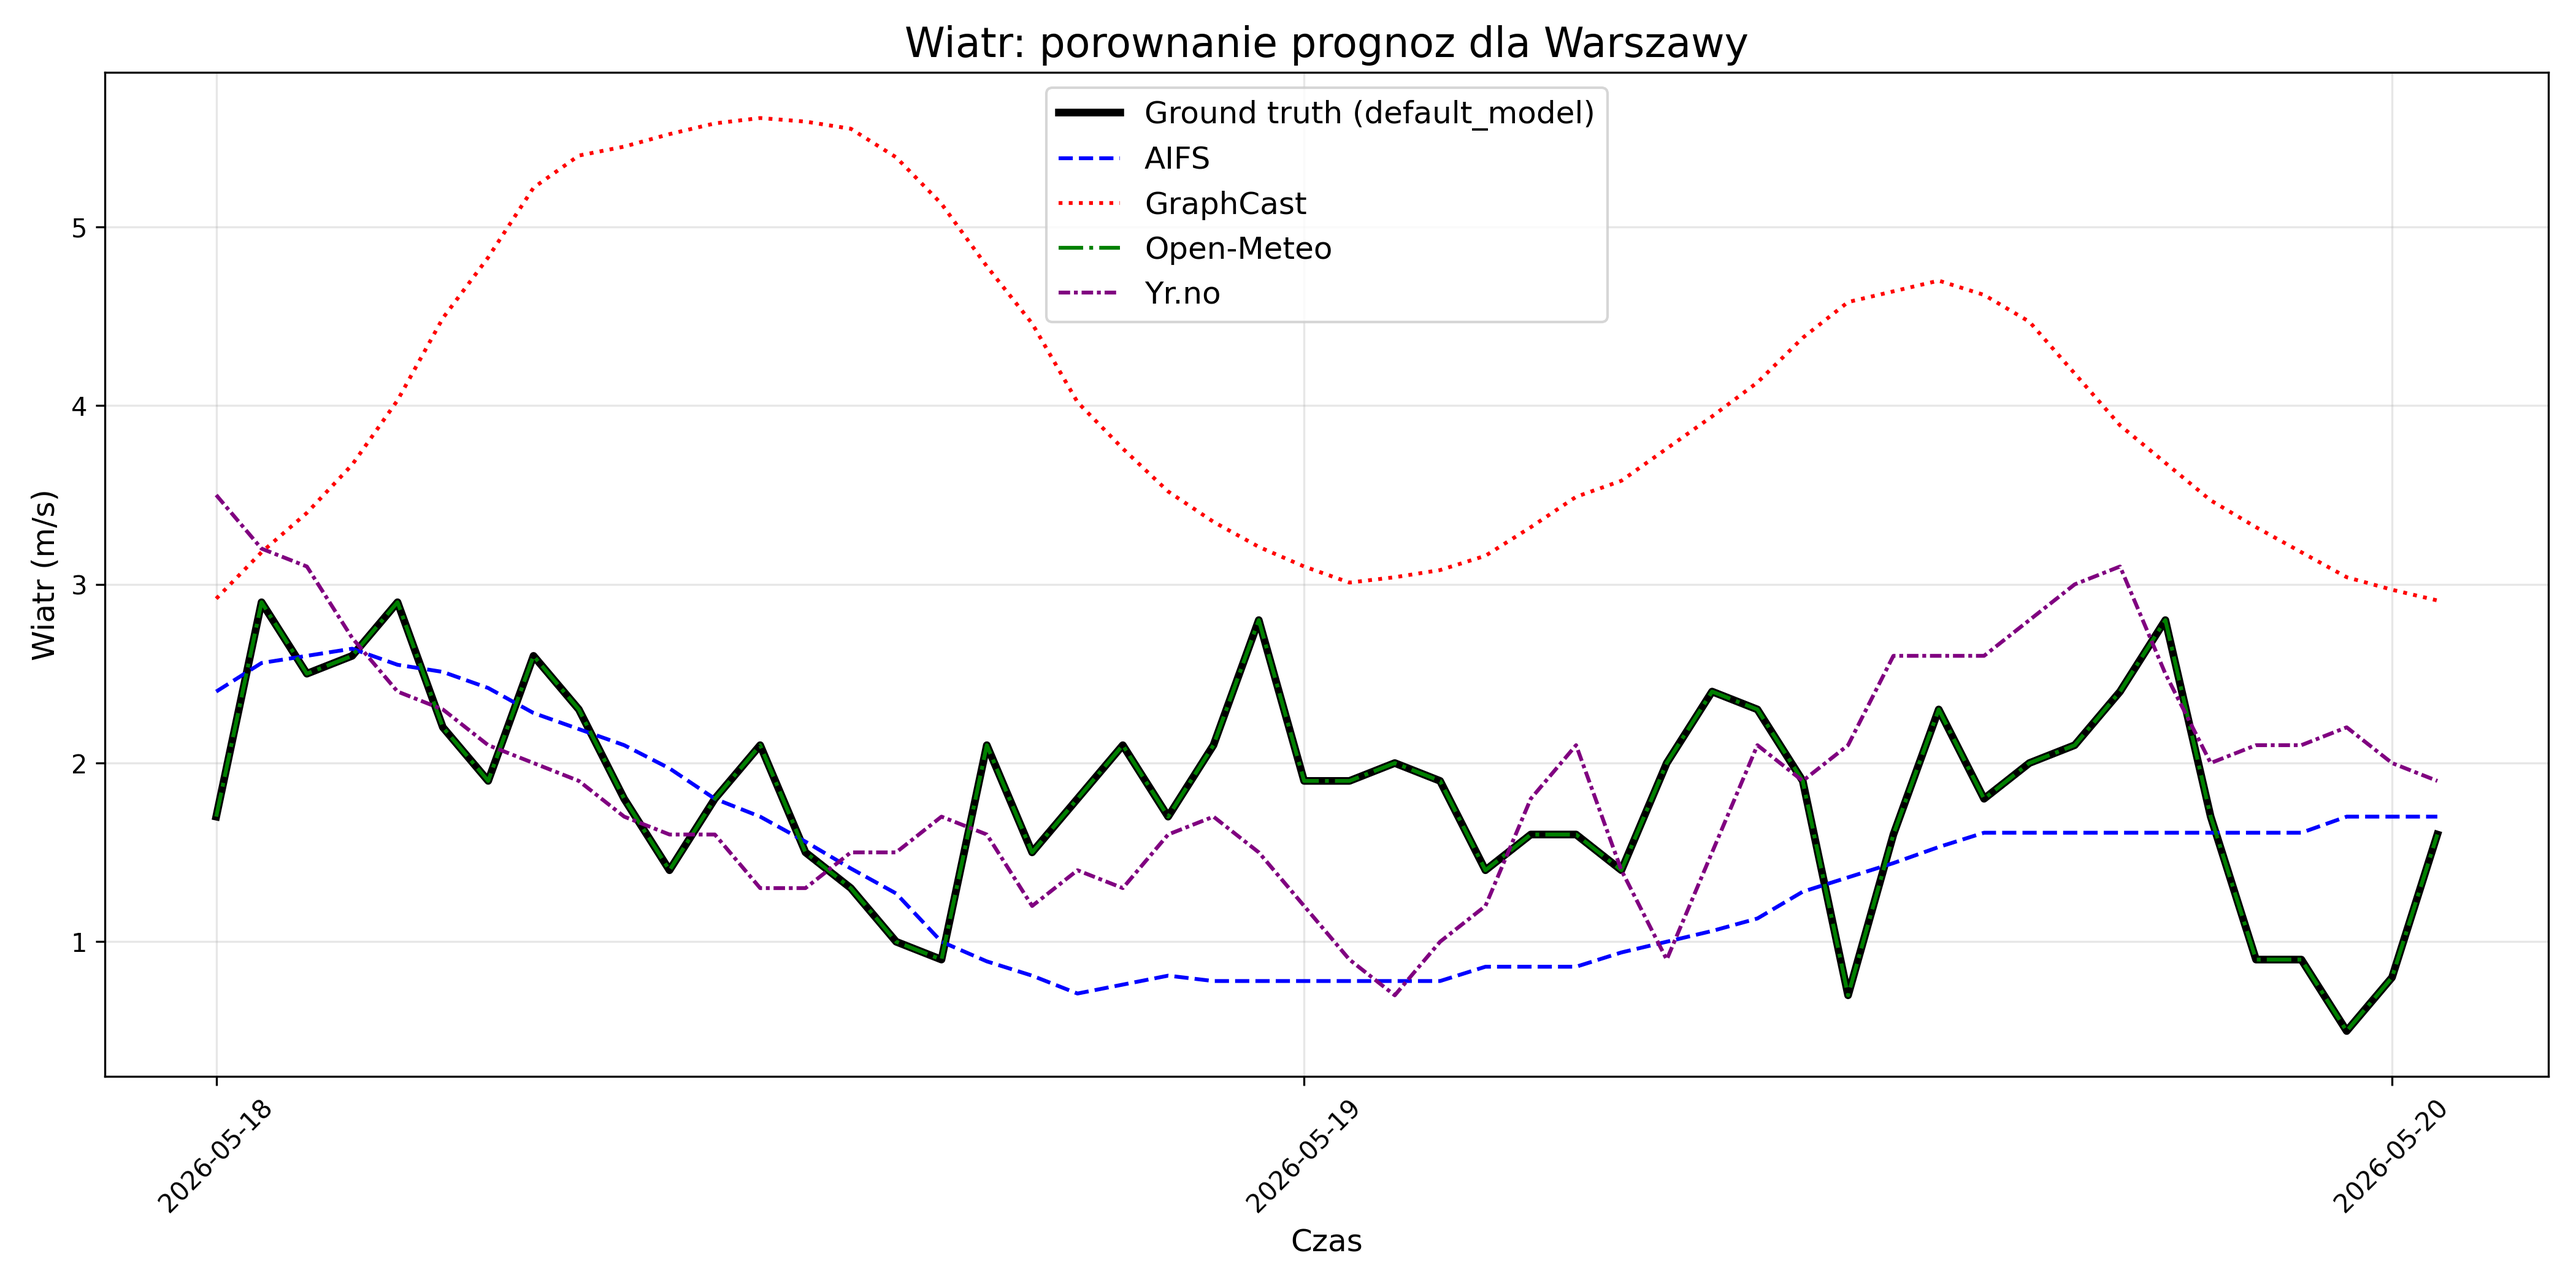
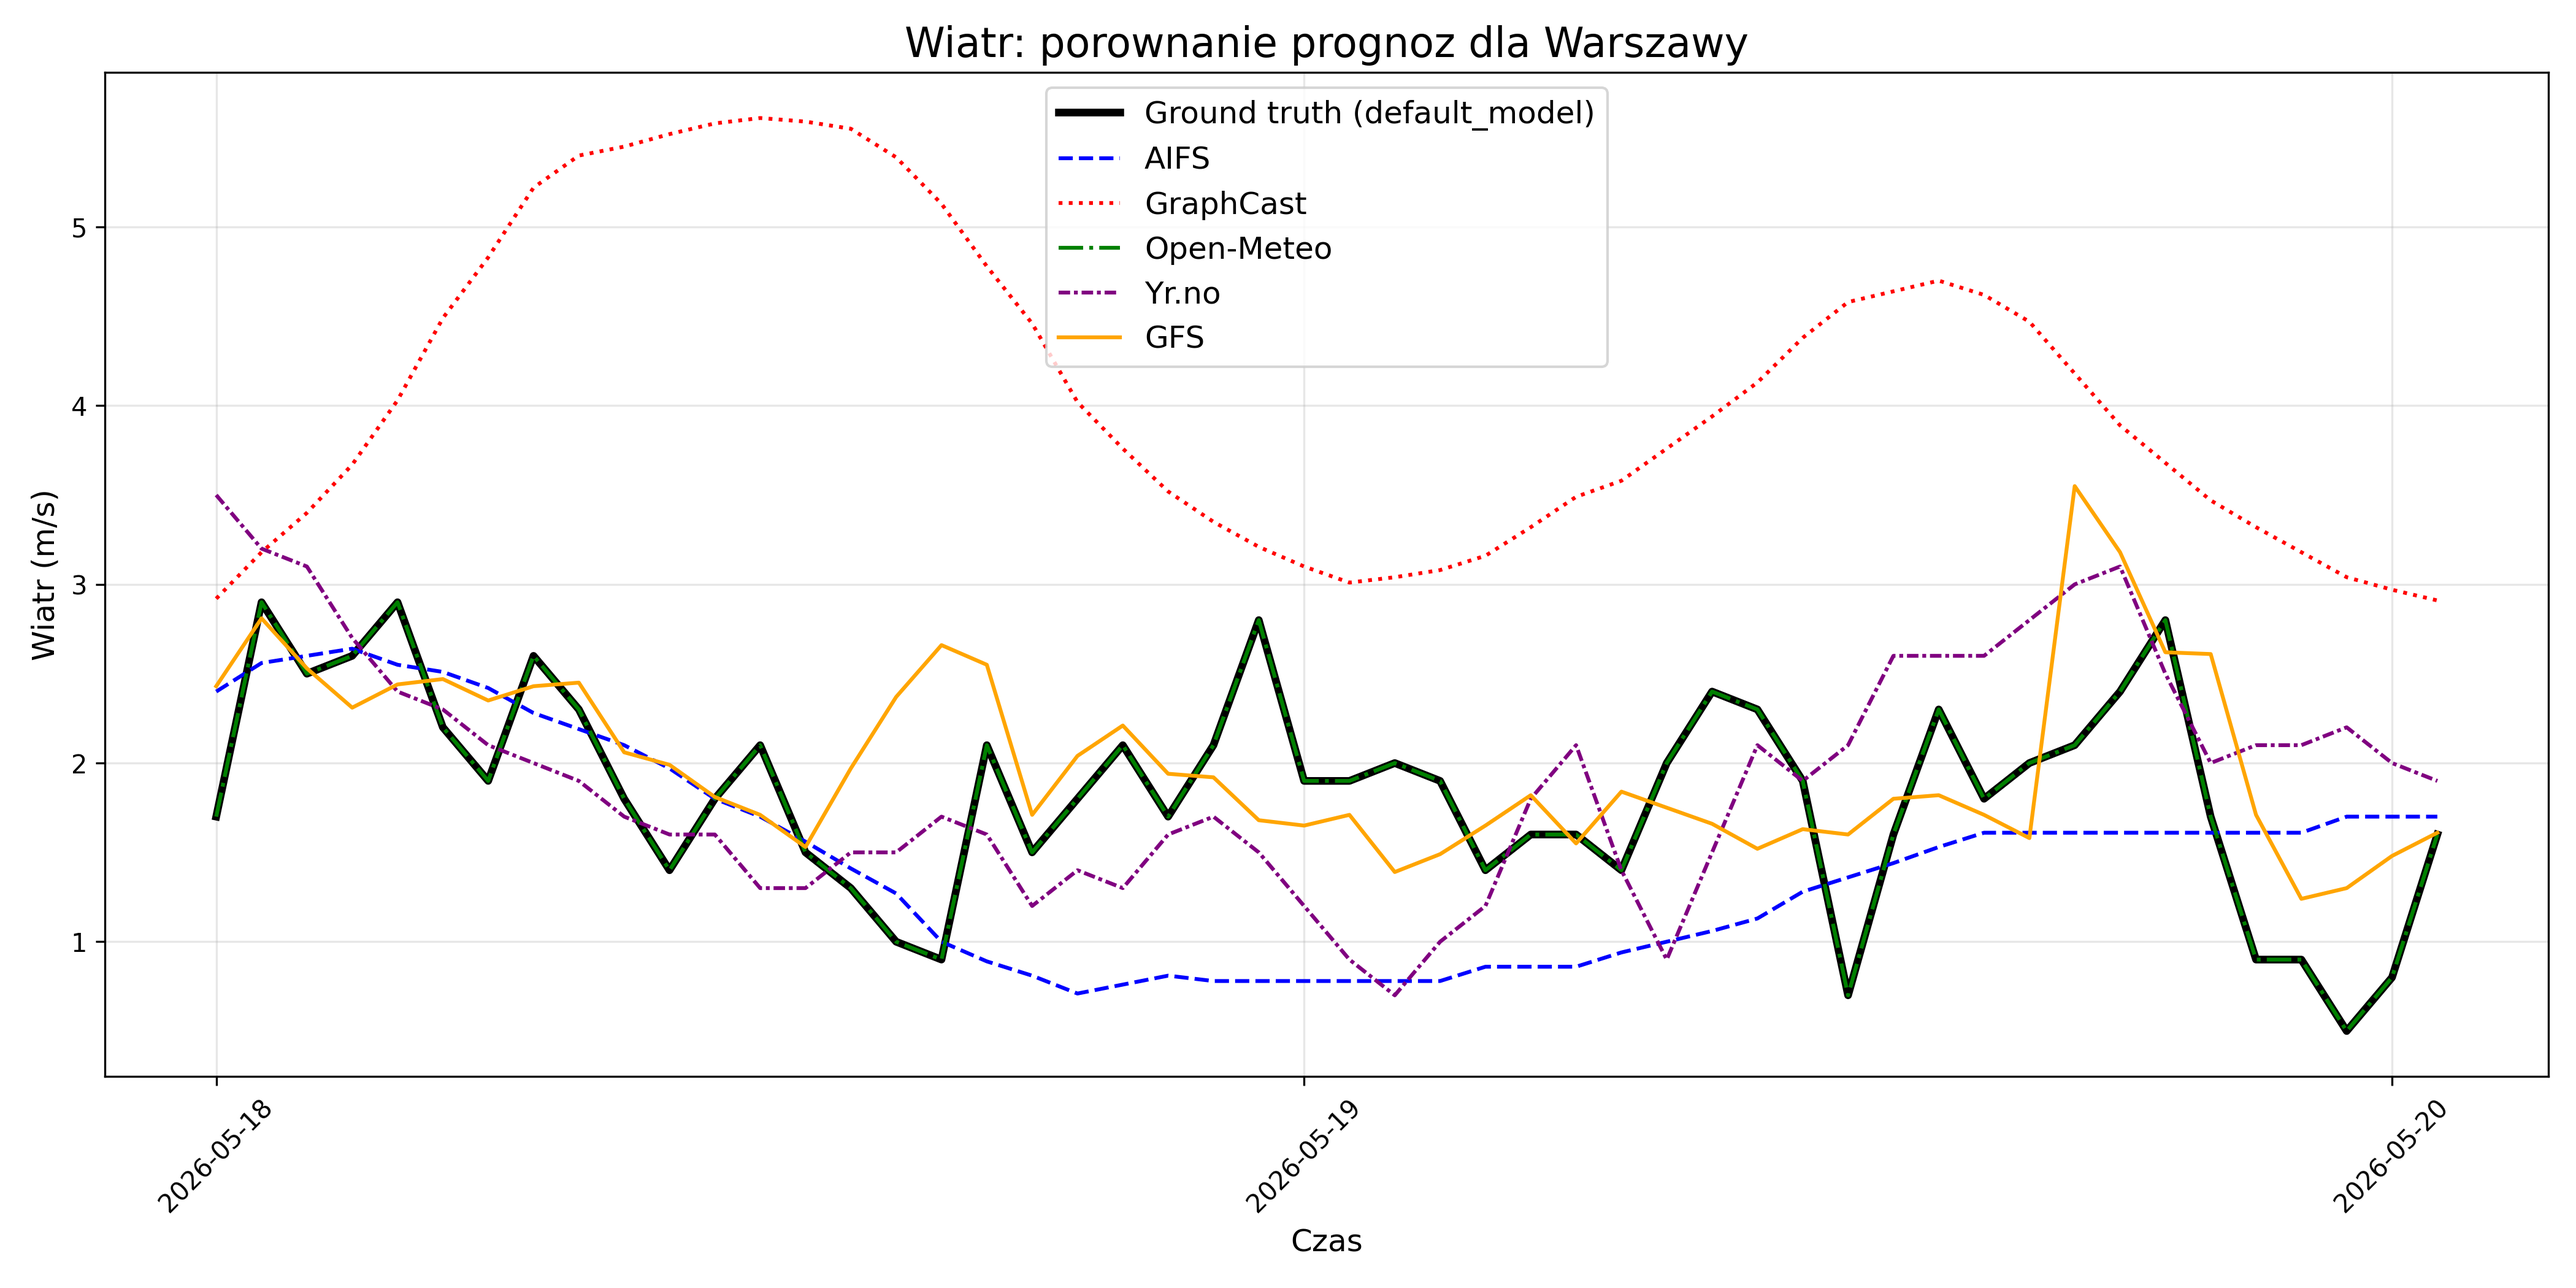
Drugi Etap

diff --git a/raport_3/porownywanie_wiatra_opadow.py b/raport_3/porownywanie_wiatra_opadow.py
@@ -62,11 +62,22 @@ MODEL_SOURCES = [
         "color": "purple",
         "linestyle": (0, (3, 1, 1, 1)),
     },
+    {
+        "name": "GFS",
+        "key": "gfs",
+        "dir": BASE_DIR / "gfs",
+        "color": "orange",
+        "linestyle": "-",
+    },
 ]
 
 
 def read_metric(path, metric_key, source_key, multiplier=1.0):
-    df = pd.read_csv(path)
+    try:
+        df = pd.read_csv(path)
+    except FileNotFoundError:
+        return pd.DataFrame()
+
     expected_columns = {"time", metric_key}
 
     if not expected_columns.issubset(df.columns):
@@ -83,6 +94,8 @@ def read_metric(path, metric_key, source_key, multiplier=1.0):
 
 
 def date_range_text(df):
+    if df.empty:
+        return "Brak danych"
     return f"{df['time'].min():%Y-%m-%d %H:%M} - {df['time'].max():%Y-%m-%d %H:%M}"
 
 
@@ -104,6 +117,14 @@ def analyze_source_metric(ground_truth, source_config, metric_config):
         metric_config["key"],
         source_config["key"],
     )
+    
+    if source.empty or ground_truth.empty:
+         return {
+            "source": source,
+            "merged": pd.DataFrame(),
+            "has_data": False,
+        }
+        
     merged = ground_truth.merge(source, on="time")
 
     if merged.empty:
@@ -265,6 +286,11 @@ def print_total_ranking(metric_analyses):
 def plot_metric(metric_analysis):
     metric = metric_analysis["metric"]
     ground_truth = metric_analysis["ground_truth"]
+    
+    if ground_truth.empty:
+        print(f"❌ Brak danych Ground Truth dla {metric['name']}, pomijam wykres.")
+        return
+        
     ground_truth_column = f"{metric['key']}_ground_truth"
 
     print(f"Generowanie wykresu: {metric['name']}...")
